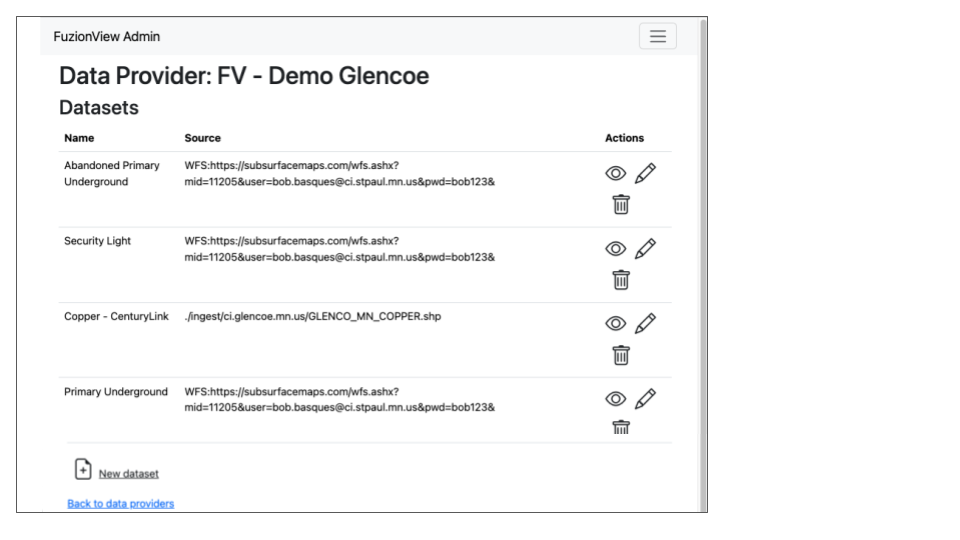
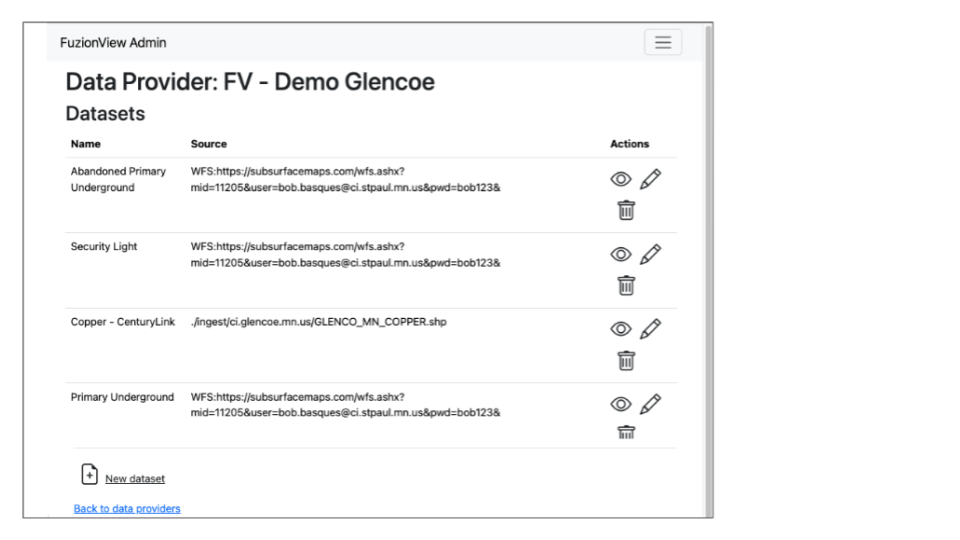
missing file take 3

diff --git a/source/SystemOperator.rst b/source/SystemOperator.rst
@@ -106,7 +106,7 @@ Datasets
 
 Refer to the Data Provider Admin guide `here <#https://uumpt.sharedgeo.net/docs/DataProvider.html#data-provider-admin#>`_
 
-.. figure:: /_static/test.png
+.. figure:: /_static/SOAdmin2_Datasets1.png
    :alt: Manage Datasets
    :class: with-border
 
